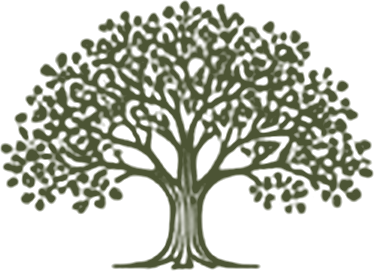
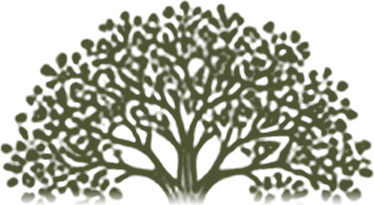
Nossa essência: ícone da Copa mostra só a copa da árvore
Claude-Session: https://claude.ai/code/session_01NZJDiJs3qk8ScGhHchuvNn

diff --git a/index.html b/index.html
@@ -1748,7 +1748,7 @@
     <link rel="stylesheet" href="equipe.css?v=redondas-20261011">
     <link rel="stylesheet" href="site.css">
     <link rel="stylesheet" href="watercolor.css">
-    <link rel="stylesheet" href="arbor-ui.css?v=7">
+    <link rel="stylesheet" href="arbor-ui.css?v=8">
 </head>
 <body>
 <svg width="0" height="0" style="position:absolute" aria-hidden="true" focusable="false"><defs><filter id="wc-soft" x="-30%" y="-30%" width="160%" height="160%"><feTurbulence type="fractalNoise" baseFrequency="0.008 0.011" numOctaves="3" seed="11" result="n"/><feDisplacementMap in="SourceGraphic" in2="n" scale="70" xChannelSelector="R" yChannelSelector="G" result="d"/><feGaussianBlur in="d" stdDeviation="9"/></filter><filter id="wc-edge" x="-5%" y="-100%" width="110%" height="300%"><feTurbulence type="fractalNoise" baseFrequency="0.012 0.09" numOctaves="3" seed="4" result="n"/><feDisplacementMap in="SourceGraphic" in2="n" scale="34" xChannelSelector="R" yChannelSelector="G"/></filter></defs></svg>
@@ -2003,7 +2003,7 @@
                     <p>Traduz estrutura e consistência.</p>
                 </div>
                 <div class="ui-ess-parte">
-                    <img class="ui-ess-ico" src="assets/ilustracoes/arvore-copa.webp" alt="" loading="lazy" decoding="async" width="374" height="271">
+                    <img class="ui-ess-ico" src="assets/ilustracoes/arvore-copa.webp?v=2" alt="" loading="lazy" decoding="async" width="374" height="205">
                     <h3>Copa</h3>
                     <p>Expressa crescimento, novas possibilidades e visão de futuro.</p>
                 </div>
